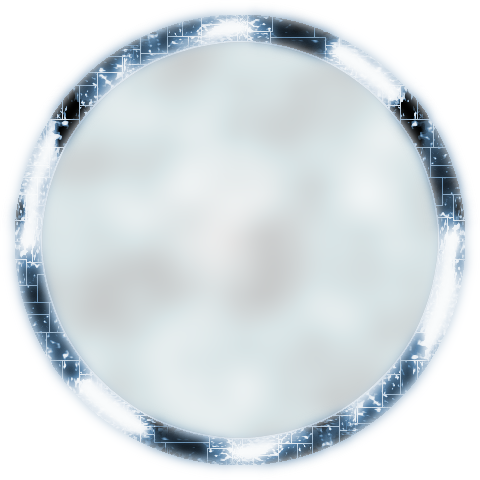
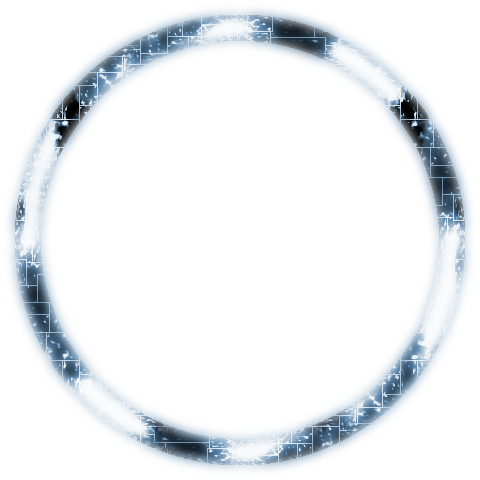
Added portal effect to jumpgate.

diff --git a/src/battle/entities.c b/src/battle/entities.c
@@ -20,12 +20,6 @@ Foundation, Inc., 59 Temple Place - Suite 330, Boston, MA  02111-1307, USA.
 
 #include "entities.h"
 
-static Entity deadHead;
-static Entity *deadTail;
-
-static int disabledGlow;
-static int disabledGlowDir;
-
 static void drawEntity(Entity *e);
 static void doEntity(void);
 static void alignComponents(void);
@@ -37,6 +31,13 @@ static int drawComparator(const void *a, const void *b);
 static void notifyNewArrivals(void);
 static int isCapitalShipComponent(Entity *e);
 
+static SDL_Texture *jumpPortal;
+static float jumpPortAngle;
+static Entity deadHead;
+static Entity *deadTail;
+static int disabledGlow;
+static int disabledGlowDir;
+
 void initEntities(void)
 {
 	memset(&deadHead, 0, sizeof(Entity));
@@ -45,6 +46,9 @@ void initEntities(void)
 	
 	disabledGlow = DISABLED_GLOW_MAX;
 	disabledGlowDir = -DISABLED_GLOW_SPEED;
+	
+	jumpPortal = getTexture("gfx/entities/portal.png");
+	jumpPortAngle = 0;
 }
 
 Entity *spawnEntity(void)
@@ -253,6 +257,12 @@ void doEntities(void)
 	{
 		disabledGlowDir = -DISABLED_GLOW_SPEED;
 	}
+	
+	jumpPortAngle += 0.5;
+	if (jumpPortAngle >= 360)
+	{
+		jumpPortAngle -= 360;
+	}
 }
 
 static void restrictToBattleArea(Entity *e)
@@ -381,6 +391,11 @@ void drawEntities(void)
 
 static void drawEntity(Entity *e)
 {
+	if (e->type == ET_JUMPGATE)
+	{
+		blitRotated(jumpPortal, e->x - battle.camera.x, e->y - battle.camera.y, jumpPortAngle);
+	}
+	
 	SDL_SetTextureColorMod(e->texture, 255, 255, 255);
 	
 	if (e->armourHit > 0)

diff --git a/src/battle/entities.h b/src/battle/entities.h
@@ -35,6 +35,8 @@ extern void drawShieldHitEffect(Entity *e);
 extern void removeFromQuadtree(Entity *e, Quadtree *root);
 extern void addToQuadtree(Entity *e, Quadtree *root);
 extern void updateCapitalShipComponentProperties(Entity *parent);
+extern void drawJumpPortal(Entity *e);
+extern SDL_Texture *getTexture(char *filename);
 
 extern App app;
 extern Battle battle;

diff --git a/src/system/io.c b/src/system/io.c
@@ -87,7 +87,7 @@ char *getSaveFilePath(char *filename)
 
 	sprintf(path, "%s/%s", app.saveDir, filename);
 
-	SDL_LogMessage(SDL_LOG_CATEGORY_APPLICATION, SDL_LOG_PRIORITY_INFO, "getSaveFilePath = '%s'", path);
+	SDL_LogMessage(SDL_LOG_CATEGORY_APPLICATION, SDL_LOG_PRIORITY_DEBUG, "getSaveFilePath = '%s'", path);
 
 	return path;
 }
